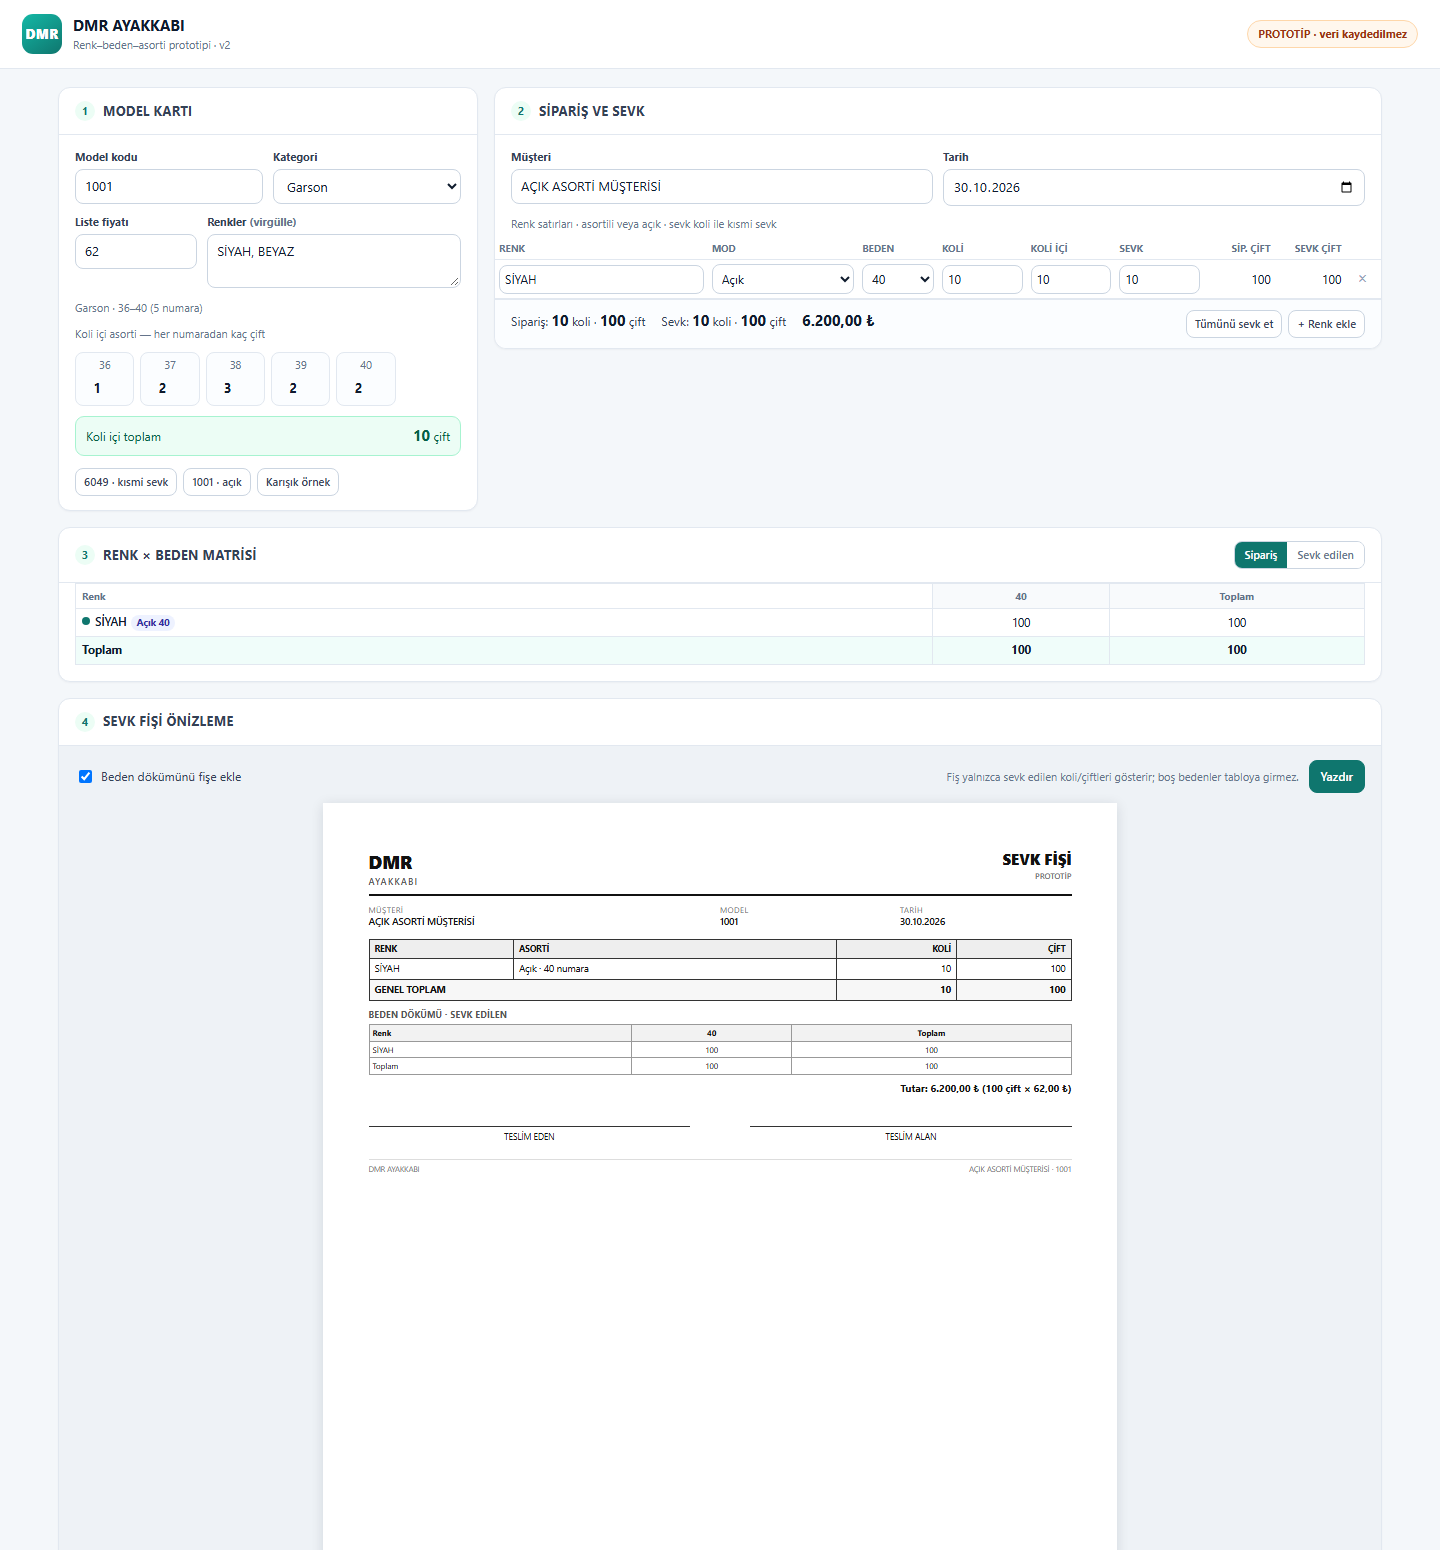
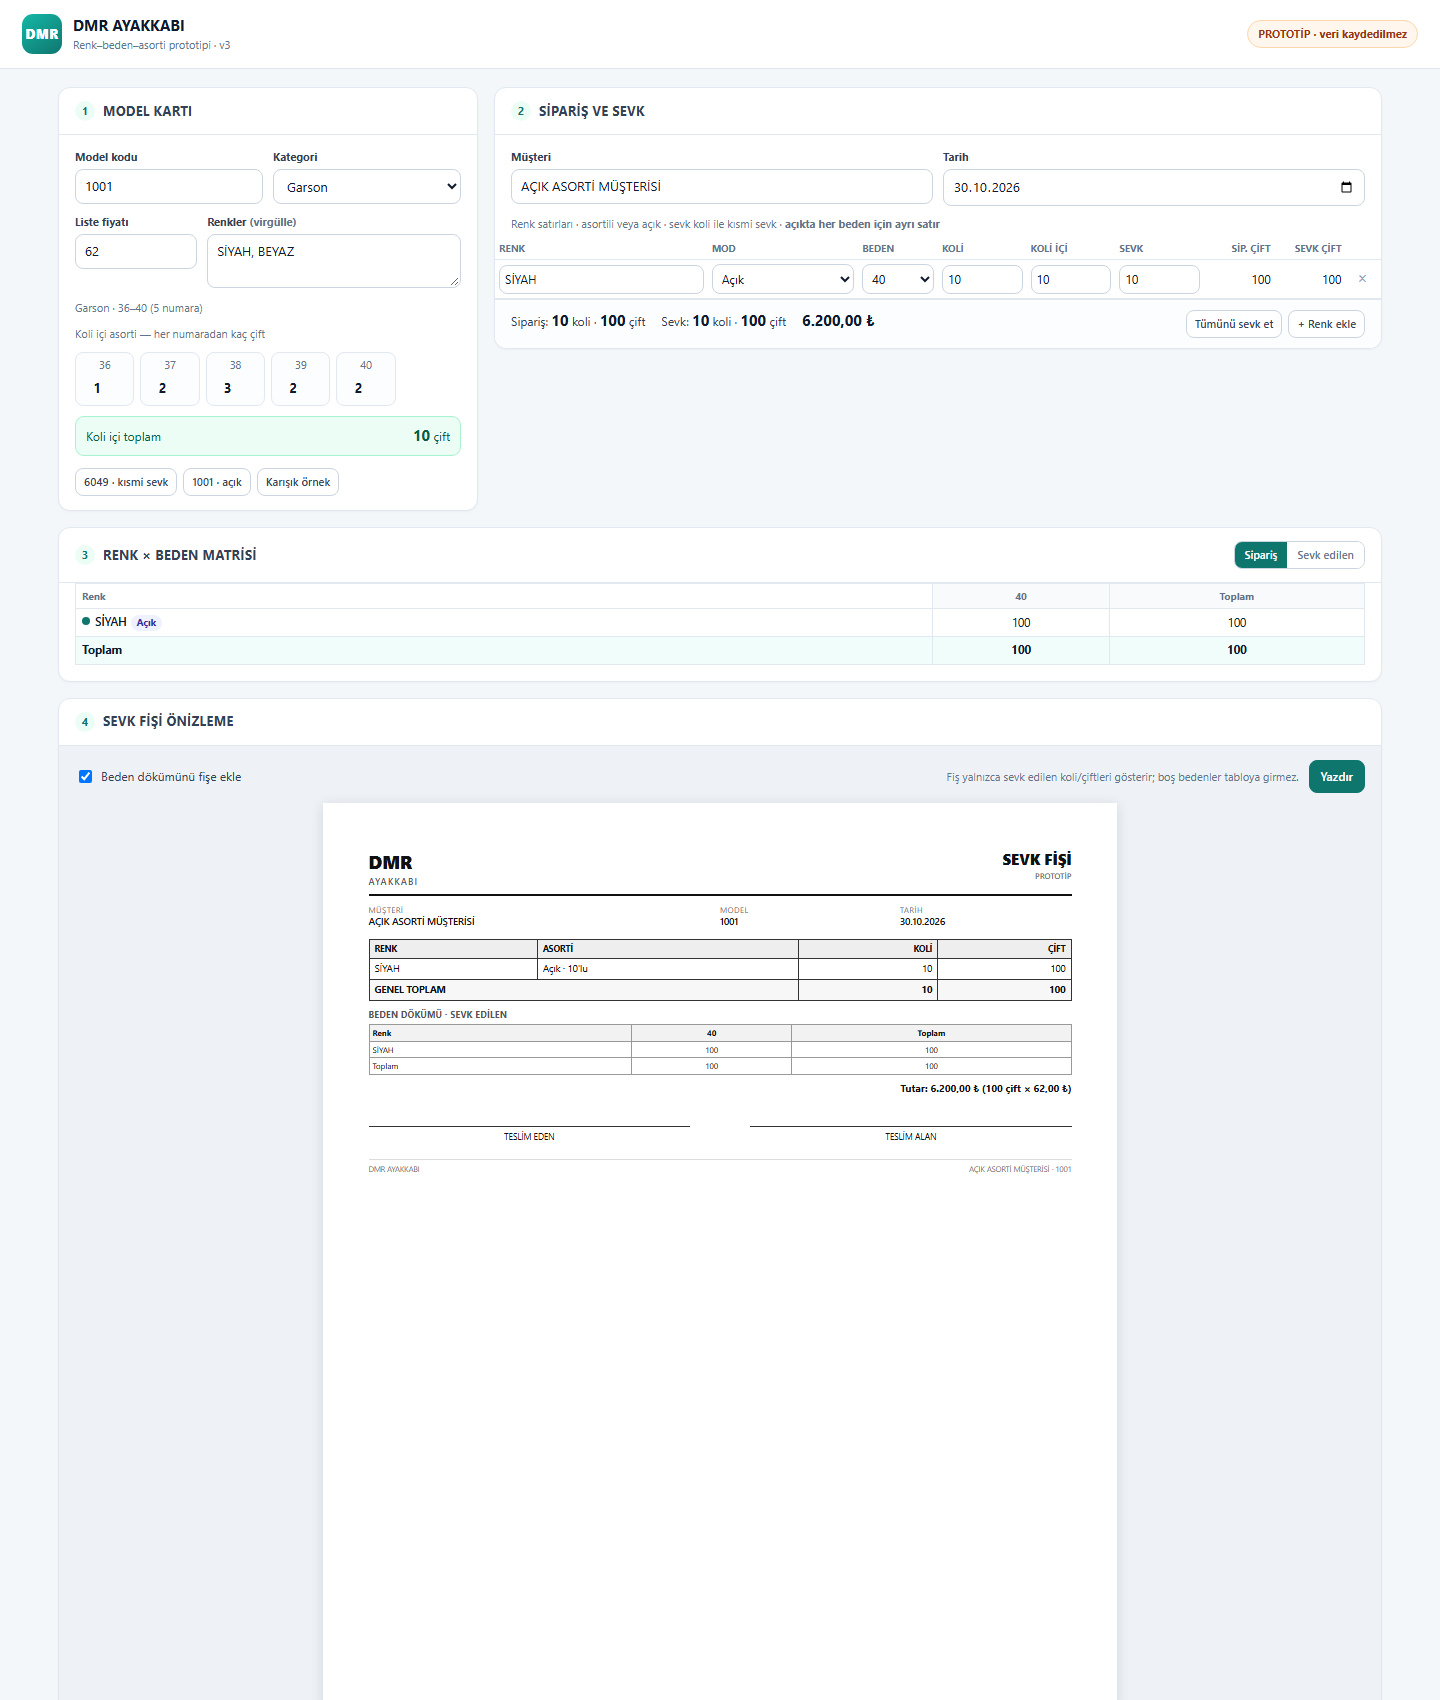
prototype: v3 — açıkta çok beden, tam koli ve 9'lu fiş
Açık siparişlerde aynı renk altında her beden ayrı satır; matris/fiş renk bazında gruplama; koli tam sayı; fişte 'Açık · 9'lu' etiketi.

diff --git a/prototype/matris.html b/prototype/matris.html
@@ -3,7 +3,7 @@
 <head>
 <meta charset="utf-8">
 <meta name="viewport" content="width=device-width, initial-scale=1">
-<title>DMR · Renk–Beden–Asorti Prototipi v2</title>
+<title>DMR · Renk–Beden–Asorti Prototipi v3</title>
 <style>
   :root{--bg:#f4f7fa;--ink:#0f1b2d;--ink2:#334155;--muted:#64748b;--line:#e2e8f0;--brand:#0f766e;--soft:#ecfdf5;--danger:#b91c1c;--r:12px}
   *{box-sizing:border-box}
@@ -90,7 +90,7 @@
 </head>
 <body>
 <header class="top">
-  <div class="brand"><div class="mark">DMR</div><div><b>DMR AYAKKABI</b><span>Renk–beden–asorti prototipi · v2</span></div></div>
+  <div class="brand"><div class="mark">DMR</div><div><b>DMR AYAKKABI</b><span>Renk–beden–asorti prototipi · v3</span></div></div>
   <div class="badge">PROTOTİP · veri kaydedilmez</div>
 </header>
 
@@ -126,7 +126,7 @@
           <div><label class="f" for="oMusteri">Müşteri</label><input id="oMusteri" value="ÖRNEK MÜŞTERİ"></div>
           <div><label class="f" for="oTarih">Tarih</label><input id="oTarih" type="date"></div>
         </div>
-        <p class="hint" style="margin:10px 0 6px">Renk satırları · asortili veya açık · sevk koli ile kısmi sevk</p>
+        <p class="hint" style="margin:10px 0 6px">Renk satırları · asortili veya açık · sevk koli ile kısmi sevk · <b>açıkta her beden için ayrı satır</b></p>
       </div>
       <div style="overflow:auto">
         <table class="editable">
@@ -180,6 +180,7 @@
       <li><b>Asorti model kartında:</b> koli içi numara dağılımı; farklı asorti = yeni model kodu (6049-1).</li>
       <li><b>Açık satır:</b> tek numara; koli içi çift <b>elle</b> (6, 9, 10, 12…).</li>
       <li><b>Kısmi sevk:</b> sevk koli, sipariş kolisinden az olabilir; fiş sevk edilen rakamı gösterir.</li>
+      <li><b>Açık çok beden:</b> aynı renkte her beden için ayrı satır; fişte “Açık · 9'lu” olarak görünür.</li>
       <li><b>Fiyat:</b> toplam = sevk edilen çift × liste fiyatı; beden bazlı fiyat yok.</li>
       <li><b>Fiş:</b> boş bedenler gösterilmez; beden dökümü isteğe bağlı.</li>
     </ul>
@@ -253,15 +254,15 @@
         ? '<select data-f="beden" data-id="' + r.id + '">' + sizes().map(function (s) { return '<option value="' + s + '"' + (s === num(r.beden) ? " selected" : "") + ">" + s + "</option>"; }).join("") + "</select>"
         : '<span class="dim">—</span>';
       var koliIci = r.mod === "ACIK"
-        ? '<input type="number" min="1" step="1" data-f="koliIci" data-id="' + r.id + '" value="' + num(r.koliIci || 10) + '">'
+        ? '<input type="number" min="1" step="1" data-f="koliIci" data-id="' + r.id + '" step="1" value="' + num(r.koliIci || 10) + '">'
         : '<span class="dim">' + fmt(perBox()) + "</span>";
       return "<tr>" +
         '<td><input data-f="renk" data-id="' + r.id + '" list="renkList" value="' + esc(r.renk) + '"></td>' +
         '<td><select data-f="mod" data-id="' + r.id + '"><option value="ASORTILI"' + (r.mod === "ASORTILI" ? " selected" : "") + '>Asortili</option><option value="ACIK"' + (r.mod === "ACIK" ? " selected" : "") + '>Açık</option></select></td>' +
         "<td>" + beden + "</td>" +
-        '<td><input type="number" min="0" step="0.5" data-f="koli" data-id="' + r.id + '" value="' + num(r.koli) + '"></td>' +
+        '<td><input type="number" min="0" step="0.5" data-f="koli" data-id="' + r.id + '" step="1" value="' + num(r.koli) + '"></td>' +
         "<td>" + koliIci + "</td>" +
-        '<td><input type="number" min="0" step="0.5" data-f="sevk" data-id="' + r.id + '" value="' + num(r.sevkKoli) + '"></td>' +
+        '<td><input type="number" min="0" step="0.5" data-f="sevk" data-id="' + r.id + '" step="1" value="' + num(r.sevkKoli) + '"></td>' +
         '<td class="right strong" data-sip="' + r.id + '">' + fmt(c.sip.total) + "</td>" +
         '<td class="right strong" data-sevk="' + r.id + '">' + fmt(c.sevk.total) + "</td>" +
         '<td><button class="x" data-del="' + r.id + '" title="Kaldır">×</button></td></tr>';
@@ -282,26 +283,37 @@
     });
   }
 
+  function keyOf(r) {
+    return String(r.renk || "").toLocaleUpperCase("tr-TR") + "|" + r.mod;
+  }
+
   function matrixData(mode) {
-    var list = sizes(), col = {}, rows = [];
+    var list = sizes(), col = {}, map = {};
     state.rows.forEach(function (r) {
       var c = calcRow(r);
-      var map = mode === "sevk" ? c.sevk.map : c.sip.map;
-      rows.push({ r: r, map: map, total: mode === "sevk" ? c.sevk.total : c.sip.total });
-      list.forEach(function (s) { col[s] = (col[s] || 0) + num(map[s]); });
+      var m = mode === "sevk" ? c.sevk.map : c.sip.map;
+      var k = keyOf(r);
+      if (!map[k]) map[k] = { renk: r.renk, mod: r.mod, mp: {}, total: 0 };
+      Object.keys(m).forEach(function (s) {
+        map[k].mp[s] = (map[k].mp[s] || 0) + num(m[s]);
+        col[s] = (col[s] || 0) + num(m[s]);
+      });
+      map[k].total += (mode === "sevk" ? c.sevk.total : c.sip.total);
     });
+    var rows = Object.keys(map).map(function (k) { return map[k]; });
     return { rows: rows, sizes: list.filter(function (s) { return col[s] > 0; }), col: col };
   }
+
   function renderMatrix() {
     if (!state.rows.length) { $("matrix").innerHTML = '<div class="empty">Henüz renk satırı yok.</div>'; return; }
     var d = matrixData(state.mx);
     if (!d.sizes.length) { $("matrix").innerHTML = '<div class="empty">Bu görünümde sevk edilen beden yok.</div>'; return; }
     var grand = 0, html = '<table class="mx"><thead><tr><th class="sticky">Renk</th>' + d.sizes.map(function (s) { return "<th>" + s + "</th>"; }).join("") + "<th>Toplam</th></tr></thead><tbody>";
     d.rows.forEach(function (x, i) {
-      var v = d.sizes.reduce(function (a, s) { return a + num(x.map[s]); }, 0);
+      var v = d.sizes.reduce(function (a, s) { return a + num(x.mp[s]); }, 0);
       if (!v) return;
-      html += '<tr><th class="sticky"><span class="dot" style="background:' + RENKLER[i % RENKLER.length] + '"></span>' + esc(x.r.renk || "—") + (x.r.mod === "ACIK" ? '<span class="pill">Açık ' + x.r.beden + "</span>" : "") + "</th>";
-      d.sizes.forEach(function (s) { var q = num(x.map[s]); html += '<td class="' + (q ? "" : "zero") + '">' + (q ? fmt(q) : "·") + "</td>"; });
+      html += '<tr><th class="sticky"><span class="dot" style="background:' + RENKLER[i % RENKLER.length] + '"></span>' + esc(x.renk || "—") + (x.mod === "ACIK" ? '<span class="pill">Açık</span>' : "") + "</th>";
+      d.sizes.forEach(function (s) { var q = num(x.mp[s]); html += '<td class="' + (q ? "" : "zero") + '">' + (q ? fmt(q) : "·") + "</td>"; });
       grand += x.total;
       html += '<td class="strong">' + fmt(x.total) + "</td></tr>";
     });
@@ -311,22 +323,46 @@
 
   function renderFis() {
     var t = calcAll();
-    var rows = state.rows.map(function (r) { return { r: r, c: calcRow(r) }; }).filter(function (x) { return num(x.r.sevkKoli) > 0 && x.c.sevk.total > 0; });
-    var rowsHtml = rows.map(function (x) {
-      var tip = x.r.mod === "ACIK" ? "Açık · " + x.r.beden + " numara" : "Asortili";
-      return "<tr><td>" + esc(x.r.renk) + "</td><td>" + esc(tip) + '</td><td class="r">' + fmt(x.r.sevkKoli) + '</td><td class="r">' + fmt(x.c.sevk.total) + "</td></tr>";
+    var rows = state.rows.map(function (r) { return { r: r, c: calcRow(r) }; })
+      .filter(function (x) { return num(x.r.sevkKoli) > 0 && x.c.sevk.total > 0; });
+
+    var groups = {};
+    rows.forEach(function (x) {
+      var k = keyOf(x.r);
+      if (!groups[k]) groups[k] = { renk: x.r.renk, mod: x.r.mod, koli: 0, cift: 0, mp: {}, adet: {} };
+      var g = groups[k];
+      g.koli += num(x.r.sevkKoli);
+      g.cift += x.c.sevk.total;
+      if (x.r.mod === "ACIK") g.adet[num(x.r.koliIci)] = 1;
+      Object.keys(x.c.sevk.map).forEach(function (s) { g.mp[s] = (g.mp[s] || 0) + num(x.c.sevk.map[s]); });
+    });
+    var glist = Object.keys(groups).map(function (k) { return groups[k]; });
+
+    function etiket(g) {
+      if (g.mod !== "ACIK") return "Asortili";
+      var arr = Object.keys(g.adet).filter(function (x) { return num(x) > 0; }).sort(function (a, b) { return num(a) - num(b); });
+      return "Açık · " + (arr.length ? arr.join("/") : "?") + "'lu";
+    }
+
+    var rowsHtml = glist.map(function (g) {
+      return "<tr><td>" + esc(g.renk) + "</td><td>" + esc(etiket(g)) + '</td><td class="r">' + fmt(g.koli) + '</td><td class="r">' + fmt(g.cift) + "</td></tr>";
     }).join("");
+
     var sizeTable = "";
-    if ($("fisBeden").checked && rows.length) {
+    if ($("fisBeden").checked && glist.length) {
       var list = sizes(), col = {};
-      rows.forEach(function (x) { list.forEach(function (s) { col[s] = (col[s] || 0) + num(x.c.sevk.map[s]); }); });
+      glist.forEach(function (g) { list.forEach(function (s) { col[s] = (col[s] || 0) + num(g.mp[s]); }); });
       var used = list.filter(function (s) { return col[s] > 0; });
       if (used.length) {
-        sizeTable = '<div class="doc-sizes"><h4>Beden dökümü · sevk edilen</h4><table class="doc-mx"><thead><tr><th>Renk</th>' + used.map(function (s) { return "<th>" + s + "</th>"; }).join("") + "<th>Toplam</th></tr></thead><tbody>" +
-          rows.map(function (x) { return "<tr><td>" + esc(x.r.renk) + "</td>" + used.map(function (s) { var q = num(x.c.sevk.map[s]); return "<td>" + (q ? fmt(q) : "·") + "</td>"; }).join("") + "<td>" + fmt(x.c.sevk.total) + "</td></tr>"; }).join("") +
+        sizeTable = '<div class="doc-sizes"><h4>Beden dökümü · sevk edilen</h4><table class="doc-mx"><thead><tr><th>Renk</th>' +
+          used.map(function (s) { return "<th>" + s + "</th>"; }).join("") + "<th>Toplam</th></tr></thead><tbody>" +
+          glist.map(function (g) {
+            return "<tr><td>" + esc(g.renk) + "</td>" + used.map(function (s) { var q = num(g.mp[s]); return "<td>" + (q ? fmt(q) : "·") + "</td>"; }).join("") + "<td>" + fmt(g.cift) + "</td></tr>";
+          }).join("") +
           '</tbody><tfoot><tr><td>Toplam</td>' + used.map(function (s) { return "<td>" + fmt(col[s]) + "</td>"; }).join("") + "<td>" + fmt(t.sevkCift) + "</td></tr></tfoot></table></div>";
       }
     }
+
     $("fisDoc").innerHTML = '<div class="doc">' +
       '<div class="doc-top"><div class="doc-brand">DMR<small>AYAKKABI</small></div><div class="doc-title">SEVK FİŞİ<small>PROTOTİP</small></div></div>' +
       '<div class="doc-meta"><div><span>Müşteri</span><b>' + esc(state.musteri || "—") + '</b></div><div><span>Model</span><b>' + esc(state.model.kod || "—") + '</b></div><div><span>Tarih</span><b>' + esc(dateTR($("oTarih").value)) + "</b></div></div>" +
@@ -362,12 +398,17 @@
     var f = el.getAttribute("data-f");
     if (f === "renk") r.renk = el.value;
     if (f === "koli") {
-      var eski = num(r.koli); r.koli = num(el.value);
+      var eski = num(r.koli);
+      r.koli = Math.max(0, Math.round(num(el.value)));
+      el.value = r.koli;
       if (r.sevkKoli === eski || r.sevkKoli > r.koli) r.sevkKoli = r.koli;
       var sev = document.querySelector('[data-f="sevk"][data-id="' + id + '"]'); if (sev) sev.value = r.sevkKoli;
     }
-    if (f === "koliIci") r.koliIci = num(el.value);
-    if (f === "sevk") { r.sevkKoli = Math.min(num(el.value), num(r.koli)); if (num(el.value) !== r.sevkKoli) el.value = r.sevkKoli; }
+    if (f === "koliIci") { r.koliIci = Math.max(1, Math.round(num(el.value))); el.value = r.koliIci; }
+    if (f === "sevk") {
+      r.sevkKoli = Math.min(Math.max(0, Math.round(num(el.value))), Math.max(0, Math.round(num(r.koli))));
+      if (num(el.value) !== r.sevkKoli) el.value = r.sevkKoli;
+    }
     updateSummary(); renderMatrix(); renderFis();
   });
   $("rows").addEventListener("change", function (e) {
@@ -390,7 +431,16 @@
   });
   $("addRow").addEventListener("click", function () {
     var id = Date.now();
-    state.rows.push({ id: id, renk: state.model.renkler[state.rows.length] || "RENK " + (state.rows.length + 1), mod: "ASORTILI", beden: sizes()[0], koli: 1, koliIci: perBox(), sevkKoli: 1 });
+    var son = state.rows[state.rows.length - 1];
+    var yeni = { id: id, renk: state.model.renkler[state.rows.length % Math.max(1, state.model.renkler.length)] || "RENK " + (state.rows.length + 1), mod: "ASORTILI", beden: sizes()[0], koli: 1, koliIci: perBox(), sevkKoli: 1 };
+    if (son && son.mod === "ACIK") {
+      var idx = sizes().indexOf(num(son.beden));
+      yeni.renk = son.renk;
+      yeni.mod = "ACIK";
+      yeni.beden = sizes()[Math.min(sizes().length - 1, idx + 1)];
+      yeni.koliIci = num(son.koliIci) || 10;
+    }
+    state.rows.push(yeni);
     renderRows(); renderMatrix(); renderFis();
   });
   $("allShip").addEventListener("click", function () { state.rows.forEach(function (r) { r.sevkKoli = num(r.koli); }); renderRows(); renderMatrix(); renderFis(); });
@@ -417,7 +467,11 @@
     state.rows = [
       { id: 1, renk: "SİYAH", mod: "ASORTILI", beden: 40, koli: 3, koliIci: 10, sevkKoli: 3 },
       { id: 2, renk: "KAHVE", mod: "ASORTILI", beden: 40, koli: 2, koliIci: 10, sevkKoli: 1 },
-      { id: 3, renk: "BEYAZ", mod: "ACIK", beden: 42, koli: 4, koliIci: 9, sevkKoli: 4 }
+      { id: 3, renk: "BEYAZ", mod: "ACIK", beden: 40, koli: 2, koliIci: 9, sevkKoli: 2 },
+      { id: 4, renk: "BEYAZ", mod: "ACIK", beden: 41, koli: 2, koliIci: 9, sevkKoli: 2 },
+      { id: 5, renk: "BEYAZ", mod: "ACIK", beden: 42, koli: 2, koliIci: 9, sevkKoli: 2 },
+      { id: 6, renk: "BEYAZ", mod: "ACIK", beden: 43, koli: 1, koliIci: 9, sevkKoli: 1 },
+      { id: 7, renk: "BEYAZ", mod: "ACIK", beden: 44, koli: 1, koliIci: 9, sevkKoli: 1 }
     ];
     renderAll();
   }

diff --git a/ROADMAP.md b/ROADMAP.md
@@ -2,9 +2,9 @@
 
 Bu dosya, henüz uygulanmayan ama değerlendirilen geliştirmeleri tutar. Uygulanan işler `CHANGELOG.md` ve GitHub sürümlerine taşınır.
 
-## Renk–beden–asorti matrisi (tasarım + prototip v2)
+## Renk–beden–asorti matrisi (prototip v3)
 
-**Durum:** Tasarım netleşti, prototip v2 hazır — üretim koduna **henüz alınmadı**. Takip: [#1](https://github.com/msdemir79/dmr-sevk/issues/1)
+**Durum:** Tasarım netleşti, prototip v3 hazır — üretim koduna **henüz alınmadı**. Takip: [#1](https://github.com/msdemir79/dmr-sevk/issues/1)
 
 **Deneme ekranı:** [`prototype/matris.html`](prototype/matris.html) — veri kaydetmez; 6049 kısmi sevk, 1001 açık ve karışık örnekleri içerir.
 
@@ -19,32 +19,34 @@ Bu dosya, henüz uygulanmayan ama değerlendirilen geliştirmeleri tutar. Uygula
 - **Asorti model başına tek:** Her modelin tek asortisi olur. Farklı asorti gerektiğinde yeni model kodu açılır (ör. `6049` → `6049-1`).
 - **Asorti örneği:** 40–45 için 40-1, 41-2, 42-3, 43-2, 44-1, 45-1 = koli içi 10 çift.
 - **Kısmi sevk beden bazında değil:** Sevk ve kalan takibi toplam koli/çift üzerinden yürür.
-- **Açık (tek numara) sipariş:** Müşteri aynı modeli tek numara isteyebilir. Koli içi çift **elle** girilir (6, 9, 10, 12…). Ör. 10 koli × 10 çift = 100 çift 40 numara.
-- **Fişte sevk edilen görünür:** Kısmi sevk varsa fiş, siparişin tamamını değil **sevk edilen koli/çifti** gösterir.
+- **Sevk girişi koli:** Tam koli; ondalıklı koli yok.
+- **Açık (tek numara) sipariş:** Koli içi çift **elle** girilir (6, 9, 10, 12…). **Aynı renkte her beden** ayrı satır olarak girilebilir (40, 41, 42…); matris ve fiş renk bazında gruplar.
+- **Renk fiyatı:** Aynı modelde renkler arasında fiyat farkı yok; tek liste fiyatı.
 - **Fiyat toplam mantığı:** Tutar = sevk edilen çift × liste fiyatı; beden bazlı fiyat yok.
+- **Fişte sevk edilen görünür:** Kısmi sevk varsa fiş, siparişin tamamını değil **sevk edilen koli/çifti** gösterir.
 - **Fişte boş bedenler gizlenir:** Yalnızca sevk edilen bedenler tabloya girer.
+- **Fişte koli içi:** Açık satırlarda “Açık · 9’lu” gibi koli içi bilgisi görünür.
 
-### Prototip v2’nin gösterdikleri
+### Prototip v3’ün gösterdikleri
 
 1. Model kartında kategori + beden aralığı + çoklu renk listesi + liste fiyatı + koli içi asorti ızgarası.
-2. Siparişte renk satırları; her satır **Asortili** veya **Açık**.
-3. Asortili satırda sipariş koli / sevk koli × asorti → numara dağılımı.
-4. Açık satırda tek numara, elle koli içi çift.
-5. Renk × beden matrisi; **Sipariş / Sevk edilen** görünümü.
-6. Fiş: yalnızca sevk edilen satırlar; boş bedenler gizli; tutar = çift × fiyat.
+2. Siparişte renk satırları; asortili veya açık (açıkta her beden ayrı satır).
+3. Asortili satırda sipariş/sevk koli × asorti → numara dağılımı.
+4. Açık satırda tek numara, elle koli içi çift; aynı renk altında çok beden.
+5. Renk × beden matrisi; sipariş ve sevk görünümü; renk+mod gruplaması.
+6. Fiş: yalnızca sevk edilenler; boş beden yok; “Açık · 9’lu”; tutar.
 
-### Kalan küçük sorular
+### Kalan tek UX sorusu
 
-1. **Sevk girişi:** Koli mi, çift mi girilecek? (Prototip koli üzerinden çalışıyor; çift girişi de eklenebilir.)
-2. **Renk bazlı fiyat:** Aynı modelde renkler arasında fiyat farkı oluyor mu? (Prototip tek liste fiyatı kullanıyor.)
-3. **Açık siparişte koli içi:** 6/9/12 gibi değerler için fişte “koli içi” bilgisi görünsün mü?
-4. **Kısmi sevk:** Sevk koli ondalıklı olabilir mi (ör. 5,5 koli), yoksa tam koli mi?
+- **Açık çok beden girişi:** Her beden için ayrı satır mı (prototip böyle), yoksa tek renk satırında **beden ızgarası** mı olsun?
+  - Ayrı satır: basit, mevcut tablo yapısı, çok satır.
+  - Beden ızgarası: tek satırda 40–48 kutuları, daha kompakt ama yeni arayüz.
 
 ### Aşamalar
 
 1. ✅ Kağıt tasarım — kategori, asorti, açık sipariş, fiş kararları.
-2. ✅ HTML prototip v2 — çoklu renk, kısmi sevk, fiyat, boş beden gizleme.
-3. ⏳ Geri bildirim — prototip üzerinde son küçük sorular.
+2. ✅ HTML prototip v3 — çoklu renk, açıkta çok beden, kısmi sevk, 9’lu, fiyat.
+3. ⏳ Geri bildirim / onay — açık giriş tercihi ve üretim onayı.
 4. ⏳ Çekirdek — veri modeli, Excel şeması (`MATRİS` sayfası), migration, testler.
 5. ⏳ Arayüz — mevcut uygulamaya sipariş matrisi + fiş seçeneği.
 6. ⏳ Rapor + kabul testi → sürüm.
